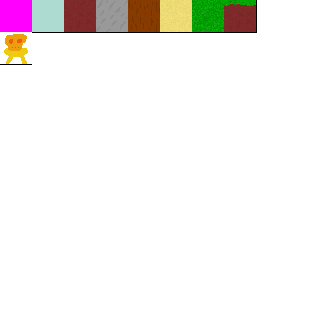
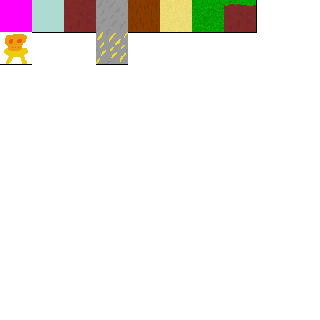
add glowing block

Changed region(s): [[0.2812, 0.0938, 0.4062, 0.2188]]

diff --git a/Map.cpp b/Map.cpp
@@ -128,7 +128,7 @@ void Map::generateWorld(){
 	}
 
 	int count = 0;
-	while(!lightUpdateQueue.empty() && count++ < 100000){
+	while(!lightUpdateQueue.empty() && count++ < 1000000){
 		const auto [x, y, g] = lightUpdateQueue.front();
 		lightUpdateQueue.pop_front();
 		Chunk* ch = chunkAt(x, y);
@@ -150,6 +150,7 @@ void Map::Chunk::generate(){
 	int gx = x * chSize;
 	int gy = y * chSize;
 	constexpr int height = 100;
+	srand(seed*seed+x+y*seed);
 	int treeHeight = (int) (perlin.noise2D((gx + chSize / 2) * 0.01, 1) * TERRAIN_STEEPNESS) + height;
 	for(int i = 0; i < chSize; i++){
 		const int n1 = (int)(perlin.noise2D((gx+i) * 0.01, 1) * TERRAIN_STEEPNESS) + height;
@@ -157,7 +158,7 @@ void Map::Chunk::generate(){
 			if(j + gy < n1){
 				Block b = Block(Tile::AIR,Tile::AIR, 0, 127);
 				b.skyView = true;
-				if(gy+j> height)b.fluid = 1;
+				if(gy+j> height)b.fluid = 2;
 				data[i + j * chSize] = b;
 			}
 			else if(j + gy == n1){
@@ -167,12 +168,19 @@ void Map::Chunk::generate(){
 					data[i + j * chSize] = Block(Tile::SAND,Tile::AIR, 0);
 			}
 			else if(j+gy<n1+dirtHeight)data[i + j * chSize] = Block(Tile::DIRT,Tile::DIRT, 0);
-			else data[i + j * chSize] = Block(Tile::STONE, Tile::STONE, 0);
+			else{
+				bool ore = (rand() % 10000) > 9990;
+				if(ore){
+					data[i + j * chSize] = Block(Tile::GLOW, Tile::STONE, 0);
+					data[i + j * chSize].lightSource = true;
+				} else{
+					data[i + j * chSize] = Block(Tile::STONE, Tile::STONE, 0);
+				}
+			}
 		}
 	}
 	short treeY = (short) floorf(treeHeight / (float) chSize);
 	if(treeY==y&&treeHeight<= height)generateTree(chSize/2, treeHeight-gy);
-	int luc = countLightUpdates;
 	for(int x = 0; x < chSize; x++){
 		for(int y = 0; y < chSize; y++){
 			updateLight(x, y, true);
@@ -183,7 +191,6 @@ void Map::Chunk::generate(){
 			updateLight(x, y, true);
 		}
 	}
-	std::cout << "Light updates scheduled by chunk generation: " << (countLightUpdates - luc) << std::endl;
 }
 
 void Map::Chunk::generateTree(int tx, int ty){

diff --git a/Helper.h b/Helper.h
@@ -44,7 +44,7 @@ const siv::PerlinNoise perlin{seed};
 */
 
 enum Tile :uint8_t{
-	UNKNOWN = 0, AIR = 1, DIRT = 2, STONE = 3, WOOD = 4, SAND = 5, LEAVES=6, GRASS=7, PLAYER=10
+	UNKNOWN = 0, AIR = 1, DIRT = 2, STONE = 3, WOOD = 4, SAND = 5, LEAVES=6, GRASS=7, PLAYER=10, GLOW=13
 };
 constexpr bool isSolid(Tile t){
 	switch(t){
